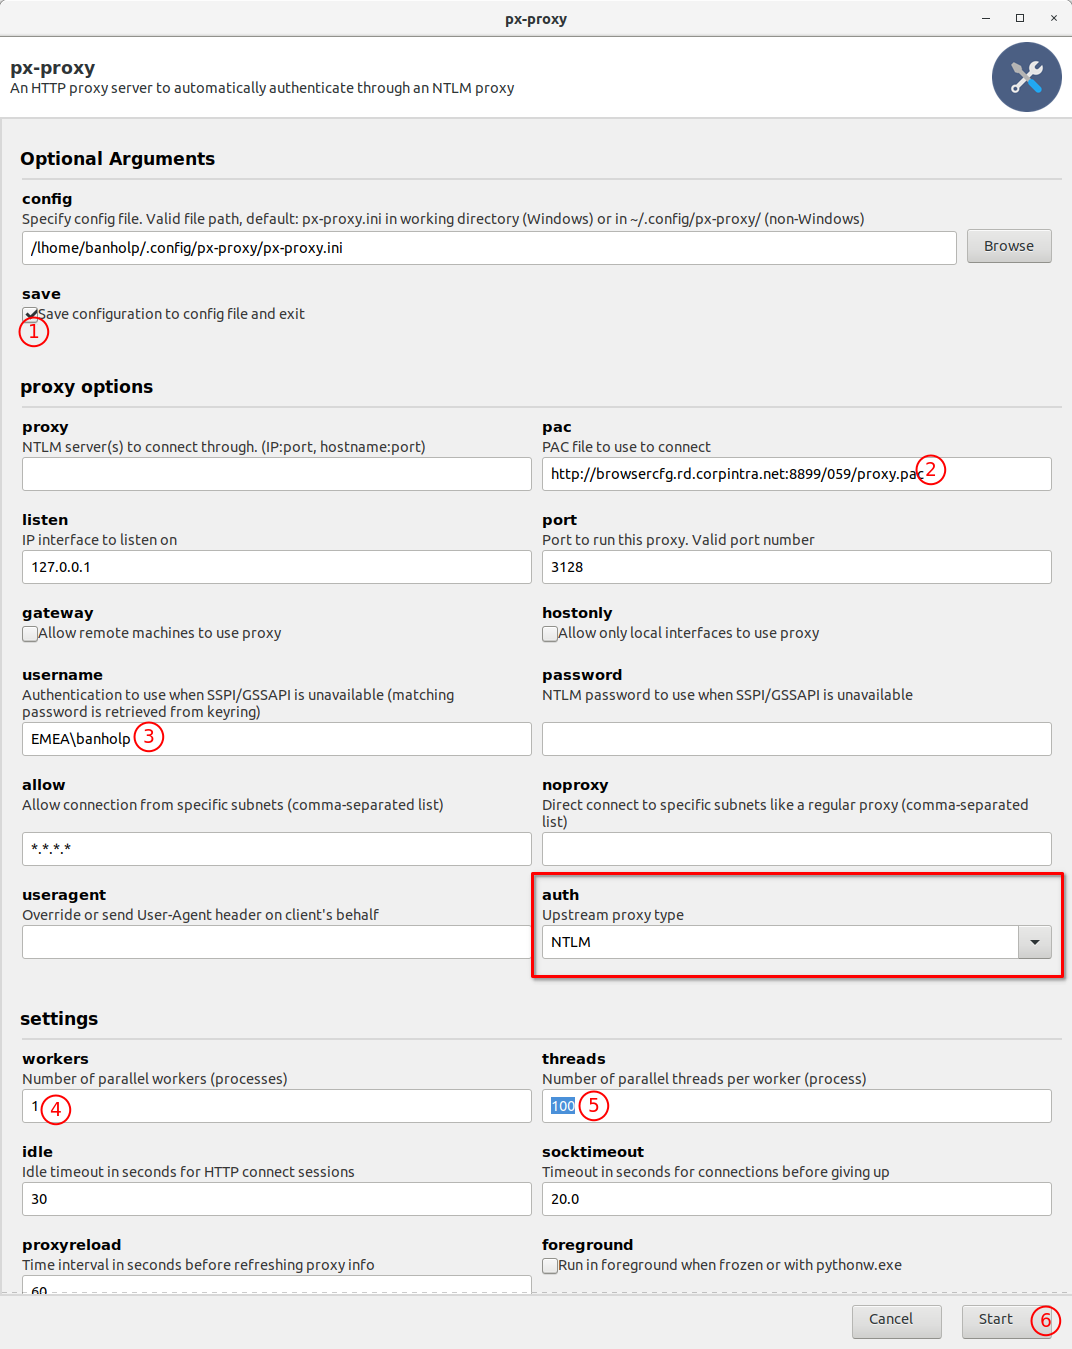
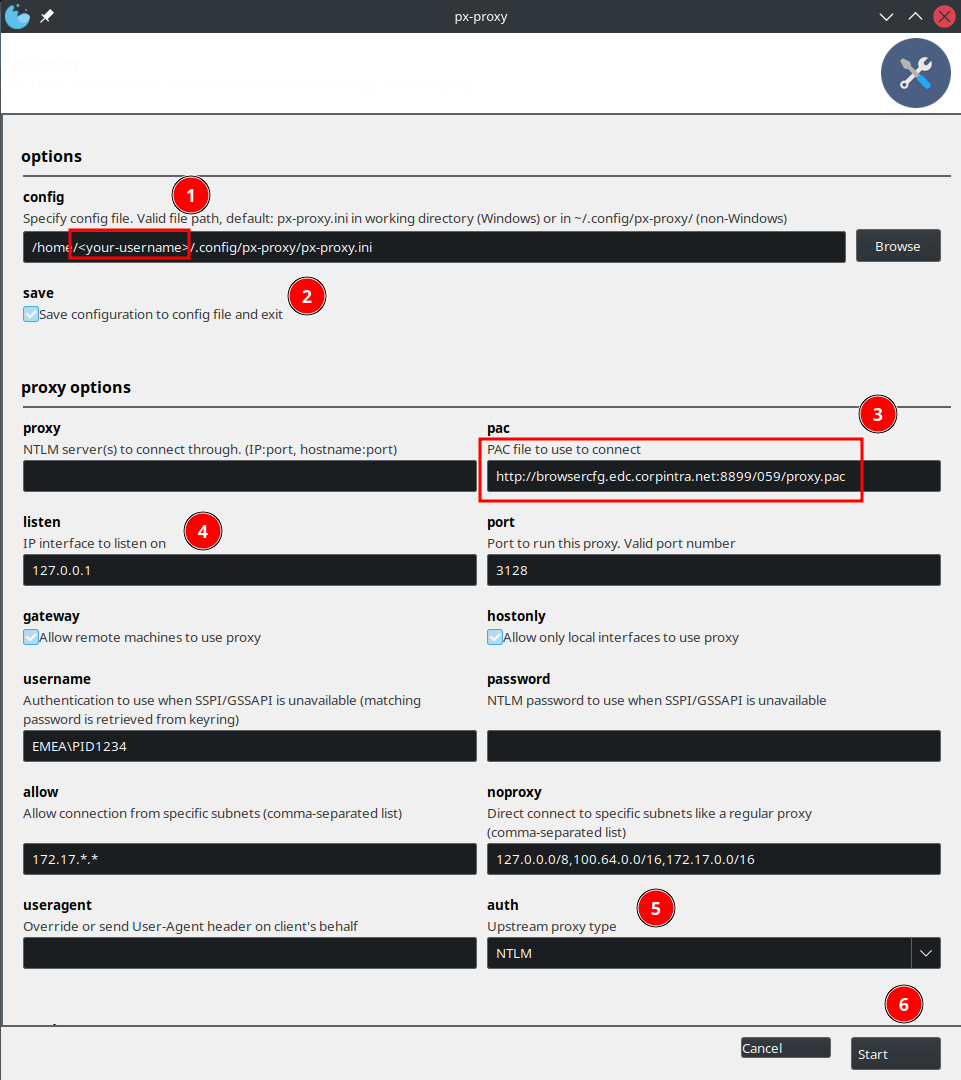
px-proxy doc update v2

diff --git a/pages/docs/px_proxy.md b/pages/docs/px_proxy.md
@@ -9,13 +9,9 @@ toc: true
 folder: docs
 ---
 
-## Preamble
-
->`px-proxy` is only available for Ubuntu 18.04 LTS or higher and _NOT_ for other Ubuntu distributions. Users with Ubuntu 16.04 LTS should upgrade to Ubuntu 18.04 LTS.
-
 ## Prerequisites
 
-For the new proxy-forwarder to work properly a valid kerberos ticket is required. Normally the ticket will be renewed on every login/unlocking when connected to corporate network or VPN. If this fails renew your credentials yourself by executing the following on the command line:
+For the new proxy-forwarder to work properly, a valid kerberos ticket is required. Normally the ticket will be renewed on every login/unlocking when connected to corporate network or VPN. If this fails, renew your credentials yourself by executing the following on the command line:
 
 ```bash
 kinit
@@ -27,15 +23,11 @@ Or use the auth dialog available in the system tray.
 
 ### Install
 
-Installation is currently only necessary on Sunnyvale-Clients. German systems are configured automatically.
+All systems running a Ubuntu RD image are configured automatically, configuration of the px-proxy user service is done during a GUI session startup by executing `/etc/X11/Xsession.d/97px-proxy`.
 
-```bash
-sudo apt-get install px-proxy krb5-auth-dialog
-```
+### Manual installation(legacy):
 
-### Configure
-
-- Stop, disable and mask CNTLM
+- Stop, disable and mask CNTLM(if present)
 
 ```bash
 sudo systemctl stop cntlm.service
@@ -43,15 +35,22 @@ sudo systemctl disable cntlm.service
 sudo systemctl mask cntlm.service
 ```
 
-**Sunnyvale:**
+- Install the px-proxy package
 
 ```bash
-sudo bash -c "echo 'ARGS=\"--pac=http://browsercfg.rd.corpintra.net:8899/624-kerberos/proxy.pac\"' > /etc/default/px-proxy"
+sudo apt-get install px-proxy krb5-auth-dialog
 ```
 
-## Enable for your user
+- Update your system
+
+```bash 
+sudo salt-call state.highstate
+```
+
+## Service controls
 
 ```bash
+systemctl --user status px-proxy
 systemctl --user enable px-proxy
 systemctl --user start px-proxy
 ```
@@ -83,7 +82,7 @@ The service `DL INTERNETFREISCHALTUNG FAK IN RD (QEV111AFLIDX)` needs to be acti
 
 ## Configure px-proxy for automated jobs
 
-Sometimes it is necessary to run the local proxy without active Kerberos tickets. For example if a system does automated tasks when nobody is logged in. Therefore px-proxy has the possibility to store the password in the gnome-keyring.
+Sometimes it is necessary to run a local proxy without active Kerberos tickets. For example if a system does automated tasks when nobody is logged in. Px-proxy has the possibility to store passwords in gnome-keyring.
 As gnome-keyring can also be used on non-graphical used systems (gnome-keyring-daemon) this is much more secure than storing passwords cntlm like in cleartext config files.
 
 ### Requesting a pool-id for automation proxy access
@@ -101,33 +100,64 @@ Information Office and ISO.)
 ### Store password in your default keyring
 
 ```bash
-banholp@cmtcleu60250979:~$ px-proxy --set-password 'EMEA\pid131as11'
+banholp@cmtcleu60250979:~$ px-proxy --set-password 'EMEA\PID1234'
 Password:
-Password stored in default keyring service Px and user EMEA\pid131as11
+Password stored in default keyring service Px and user EMEA\PID1234
 ```
 
 ### Create a custom configuration for px-proxy
 
-To create your custom config you can run `px-proxy` without any additional options and use the gui to save the config into a .ini file.  
-Make sure "NTLM" authentication mechanism is selected!
+To create your custom config you can run `px-proxy` without any additional options and use the gui to save the config into a .ini file(see below screenshot as reference):
+
+1) Configuration is by default stored in `~/.config/px-proxy/px-proxy.ini`
+2) Tick "**Save configuration**" before hitting the "**Start**" button
+3) Your default px-proxy pac url is located in `/etc/default/px-proxy`, for EMEA users there is one difference though, `http://browsercfg.edc.corpintra.net:8899/059/proxy.pac?location=proxy-sf0-krb` returns proxy addresses with their kerberos-auth endpoints which would fail for NTLM, you need to configure the default location instead `http://browsercfg.edc.corpintra.net:8899/059/proxy.pac`
+4) Listen address, for local-only setups use `127.0.0.1`
+5) Make sure "**NTLM**" authentication mechanism is selected
+6) Hit the "**Start**" button to write the configuration to disk
 
 ![px gui](images/docs/px_proxy/px-proxy_115.png)
 
-Don't forget to set threads to a high number as this massively impacts on internet performance.
+Don't forget to set threads to a high number as this massively impacts performance.  
+Your configuration file should look as follows(you can create it manually as well):
 
-### Enable custom px-proxy.service to use your config file
+```bash
+$ cat ~/.config/px-proxy/px-proxy.ini 
+[proxy]
+pac = http://browsercfg.url.for.your.location/proxy.pac
+port = 3128
+listen = 127.0.0.1
+allow = 172.17.*.*
+gateway = 1
+hostonly = 1
+noproxy = 127.0.0.0/8,100.64.0.0/16,172.17.0.0/16
+useragent = 
+username = EMEA\PID1234
+auth = NTLM
+
+[settings]
+workers = 4
+threads = 5
+idle = 30
+socktimeout = 20
+proxyreload = 60
+foreground = 0
+log = 1
+
+```
+
+### Configure your user px-proxy.service to use the new configuration file
 
 To set up the `px-proxy` service for a specific user, follow these steps:
 
-**1. Copy the Service File**:
+1) **Copy the system-wide `px-proxy.service` file to the user's systemd directory**
 
-  First, copy the system-wide `px-proxy.service` file to the user's systemd directory:
 ```bash
 cp /usr/lib/systemd/user/px-proxy.service ~/.config/systemd/user/px-proxy.service
 ```
-**2. Update the Service File:**
 
-  Edit the copied service file to update its contents. You can use a text editor or the cat command to view the file's contents.
+2) **Edit the copied service file to update its contents.**  
+You can use a text editor or the cat command to view the file's contents.
 
 ```bash
 [Unit]
@@ -136,15 +166,14 @@ StartLimitIntervalSec=60s
 StartLimitBurst=1
 
 [Service]
-EnvironmentFile=-/etc/default/px-proxy
-ExecStart=/usr/bin/px-proxy --config=/%h/.config/px-proxy/px-proxy.ini $ARGS
+ExecStart=/usr/bin/px-proxy --hostonly --config=/%h/.config/px-proxy/px-proxy.ini
 Restart=on-failure
 
 [Install]
 WantedBy=default.target
 ```
 
-These steps are necessary when setting up, modifying, or re-enabling a systemd service to ensure it runs with the correct configuration.
+Below steps are necessary when setting up, modifying, or re-enabling a systemd service to ensure it runs with the correct configuration.
 
 ```bash
 systemctl --user stop px-proxy.service
